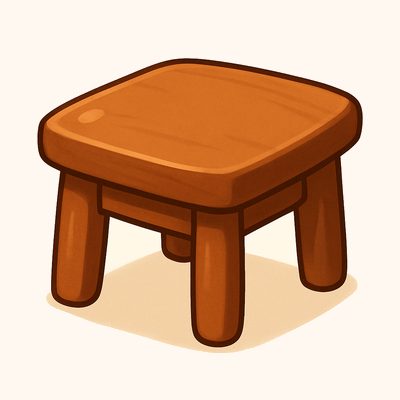
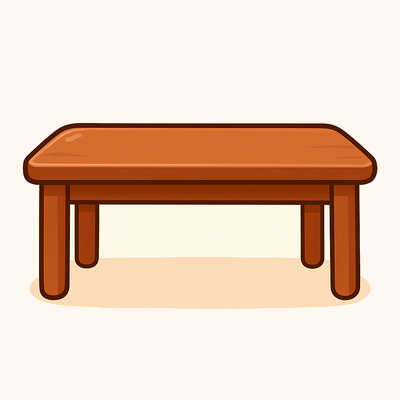
tafel: front view, much wider than tall - the first take read as a chair
Claude-Session: https://claude.ai/code/session_0196ysSTjrbGHBVxURPgHoZ3

diff --git a/lettercards/starter/images/SOURCES.md b/lettercards/starter/images/SOURCES.md
@@ -93,7 +93,7 @@ A generated image enters the deck only if it passes all five:
 | ![regen](regen.png) | regen | gpt-image-1-mini | 2026-07-05 | master prompt, subject: "a rain cloud with falling raindrops" (refs: zebra, beer, appel) |
 | ![schoen](schoen.png) | schoen | gpt-image-1-mini | 2026-07-05 | master prompt, subject: "a child's shoe" (refs: zebra, beer, appel) |
 | ![sok](sok.png) | sok | gpt-image-1-mini | 2026-07-05 | master prompt, subject: "a knitted sock" (refs: zebra, beer, appel) |
-| ![tafel](tafel.png) | tafel | gpt-image-1-mini | 2026-07-05 | master prompt, subject: "a simple wooden table" (refs: zebra, beer, appel) |
+| ![tafel](tafel.png) | tafel | gpt-image-1-mini | 2026-07-05 | master prompt, subject: "a long wooden dining table seen straight from the front, much wider than tall" (refs: zebra, beer, appel) |
 | ![tand](tand.png) | tand | gpt-image-1-mini | 2026-07-05 | master prompt, subject: "a single white tooth" (refs: zebra, beer, appel) |
 | ![vis](vis.png) | vis | gpt-image-1-mini | 2026-07-05 | master prompt, subject: "a chubby orange fish" (refs: zebra, beer, appel) |
 | ![vlinder](vlinder.png) | vlinder | gpt-image-1-mini | 2026-07-05 | master prompt, subject: "a colorful butterfly" (refs: zebra, beer, appel) |